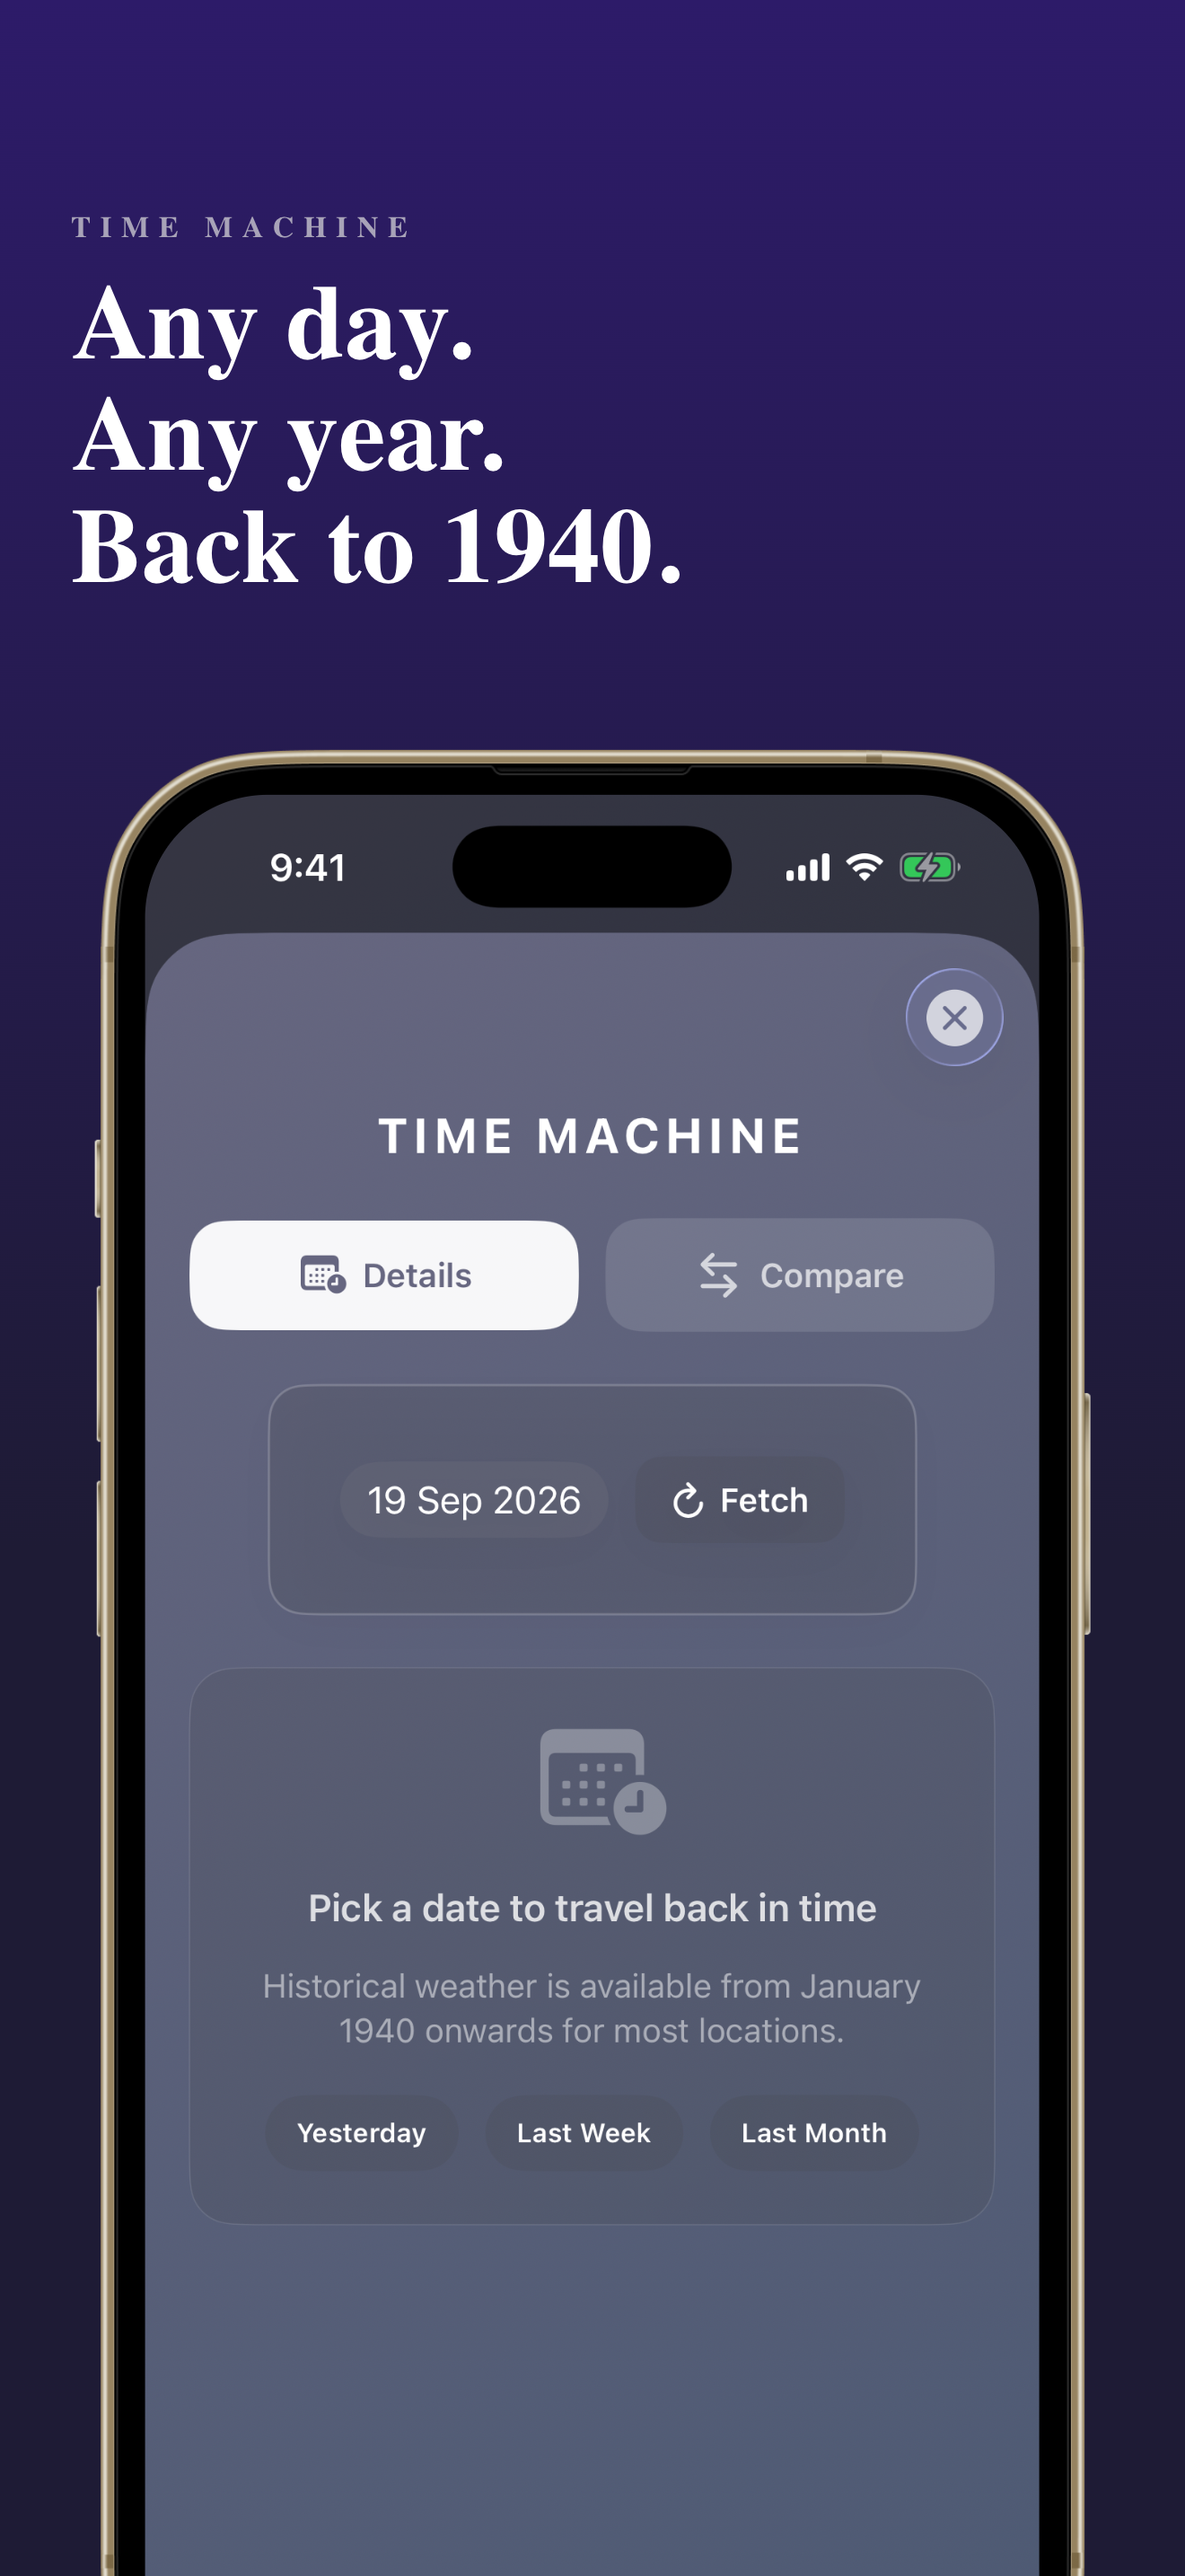
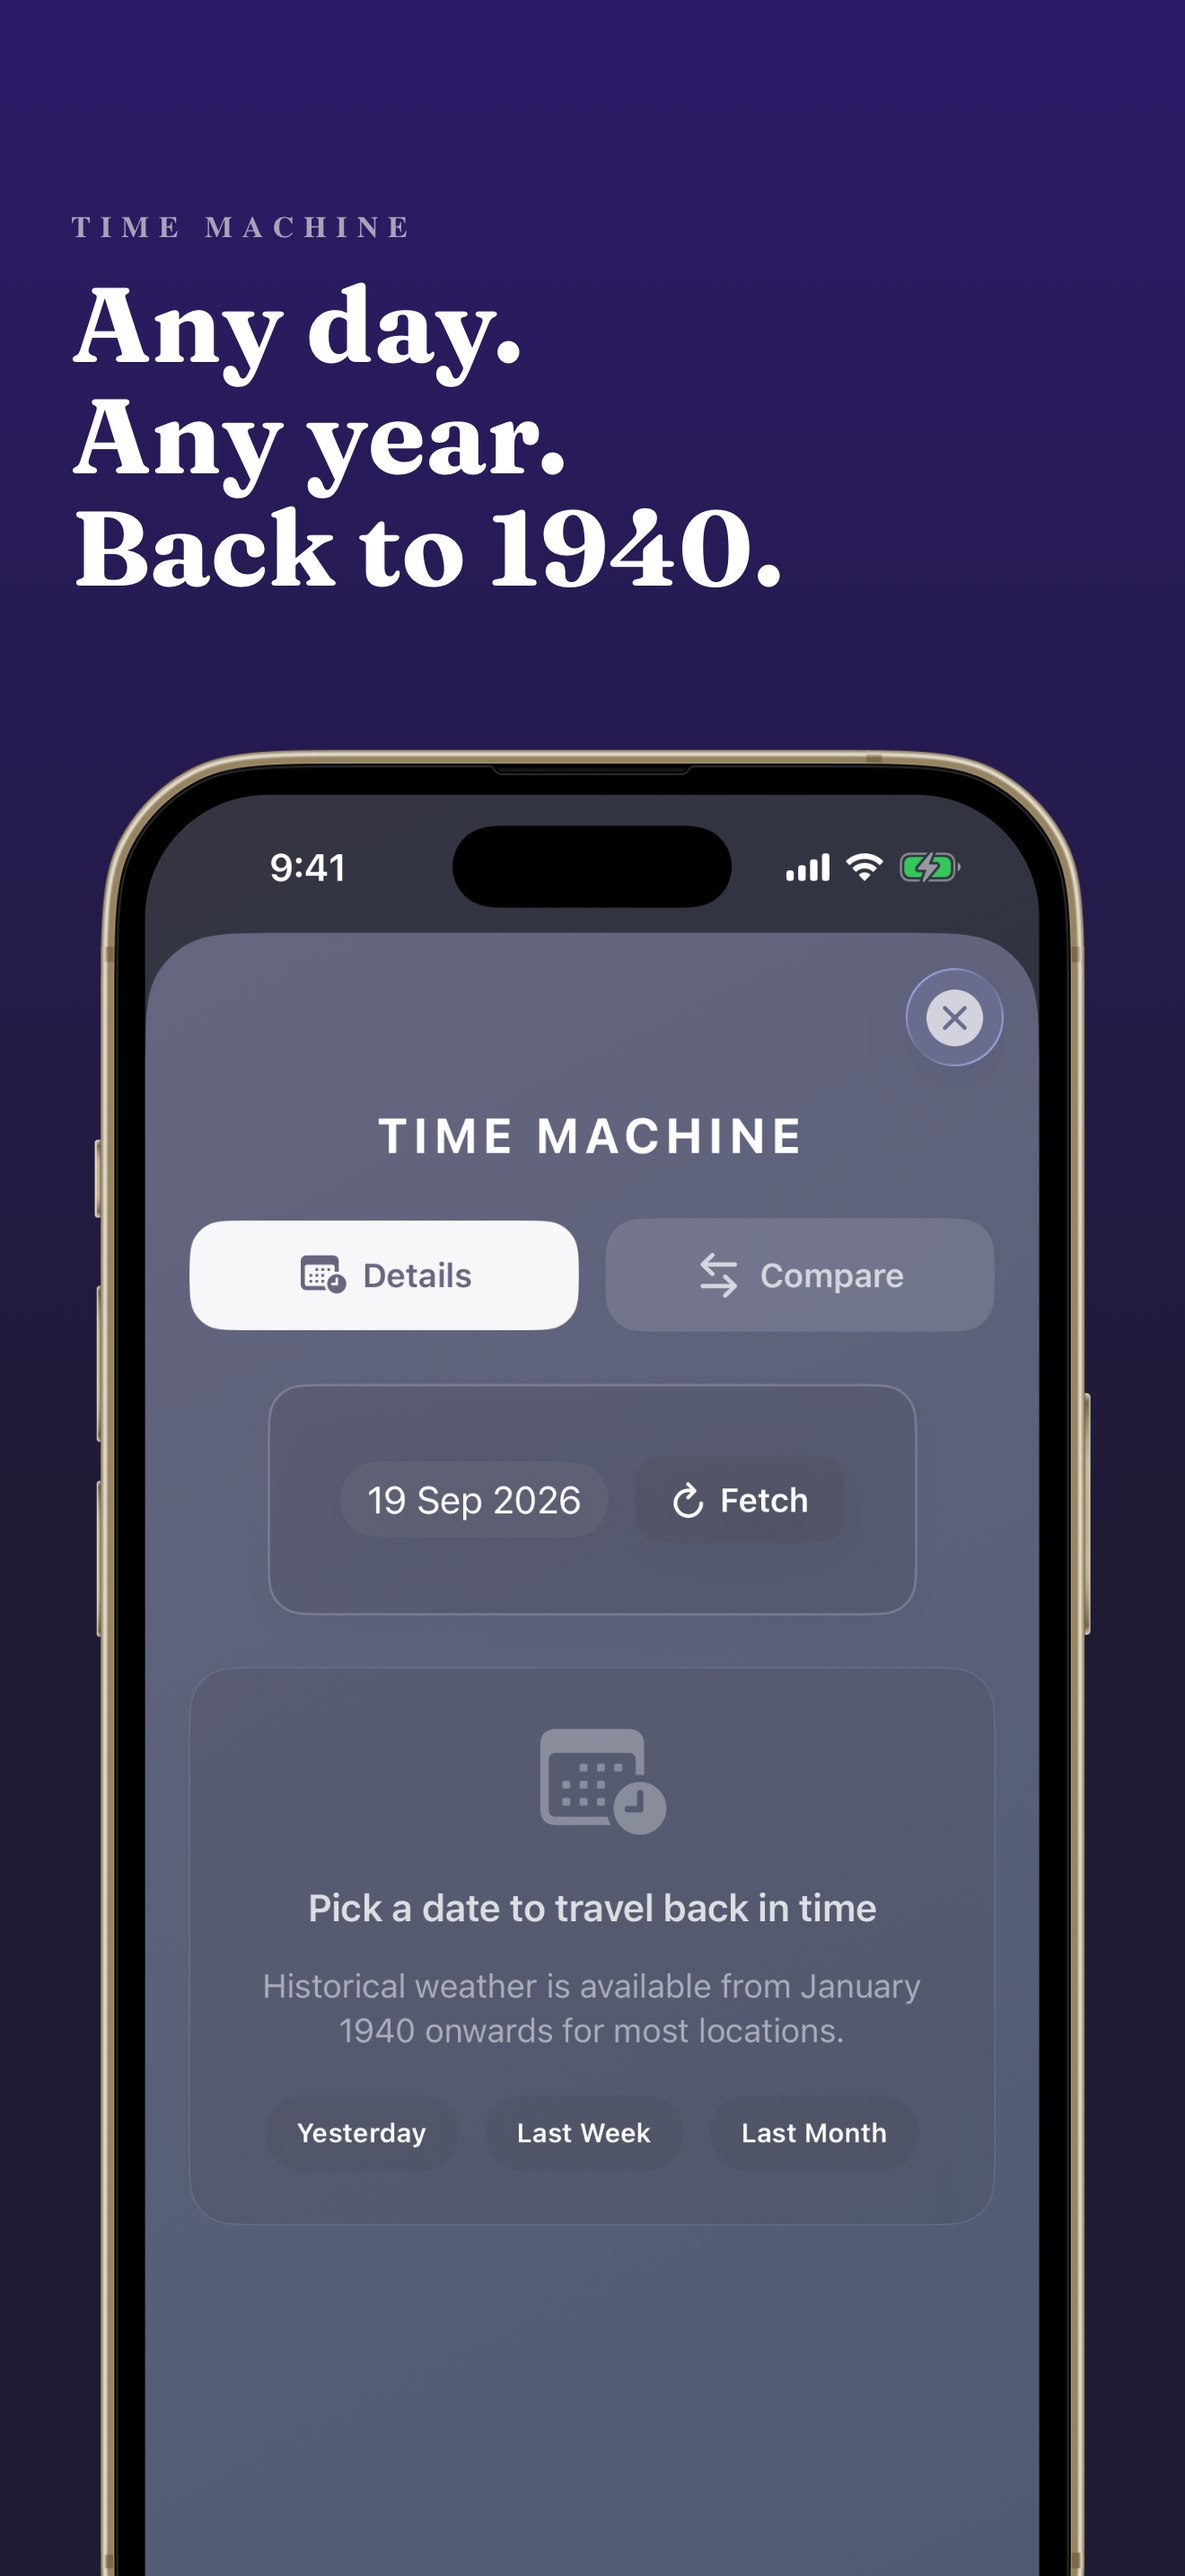
Switch marketing screenshot headlines to Fraunces display serif
Loaded via next/font with SOFT/WONK axes for a warmer, more characterful look against the pastel gradients; also removes the capture-time font clobber in the export path that would have forced every slide back to system sans. All six slides re-exported and visually verified (no clipping from the wider serif metrics, no fallback faces).

Changed region(s): [[0.0621, 0.0931, 0.6523, 0.2483]]

diff --git a/screenshots/src/app/page.tsx b/screenshots/src/app/page.tsx
@@ -200,6 +200,7 @@ function Caption({
         style={{
           fontSize: cW * 0.09,
           fontWeight: 700,
+          fontFamily: "var(--font-display), Georgia, 'Times New Roman', serif",
           color: THEMES["breezy-purple"].fg,
           lineHeight: 1.05,
         }}
@@ -233,16 +234,7 @@ export default function ScreenshotsPage() {
       clone.style.top = "0";
       clone.style.zIndex = "-9999";
       clone.removeAttribute("id");
-      
-      // Replace all font-family with system fonts 
-      const allElements = clone.querySelectorAll("*");
-      allElements.forEach((el) => {
-        const htmlEl = el as HTMLElement;
-        if (htmlEl.style.fontFamily) {
-          htmlEl.style.fontFamily = "system-ui, -apple-system, BlinkMacSystemFont, 'Segoe UI', Roboto, sans-serif";
-        }
-      });
-      
+
       document.body.appendChild(clone);
       
       const opts = { 

diff --git a/screenshots/src/app/layout.tsx b/screenshots/src/app/layout.tsx
@@ -1,5 +1,12 @@
 import type { Metadata } from "next";
+import { Fraunces } from "next/font/google";
 import "./globals.css";
+
+const display = Fraunces({
+  subsets: ["latin"],
+  variable: "--font-display",
+  axes: ["SOFT", "WONK"],
+});
 
 export const metadata: Metadata = {
   title: "Breezy - App Store Screenshots",
@@ -12,7 +19,7 @@ export default function RootLayout({
   children: React.ReactNode;
 }>) {
   return (
-    <html lang="en" className="h-full antialiased" style={{ fontFamily: "sans-serif" }}>
+    <html lang="en" className={`h-full antialiased ${display.variable}`} style={{ fontFamily: "sans-serif" }}>
       <body className="min-h-full flex flex-col">{children}</body>
     </html>
   );
